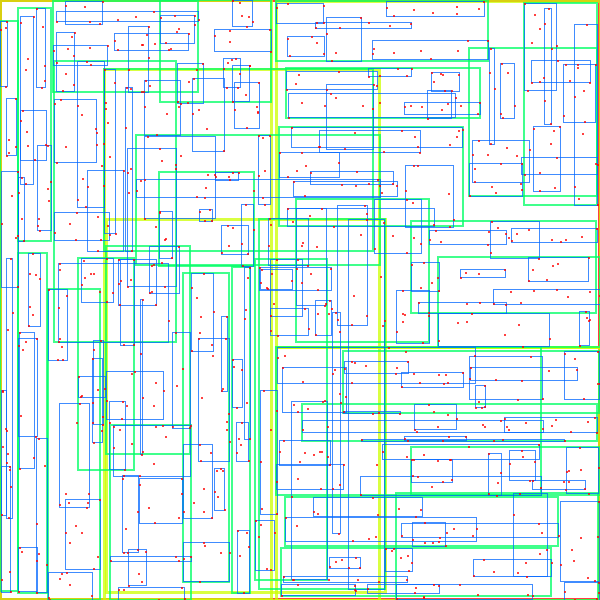
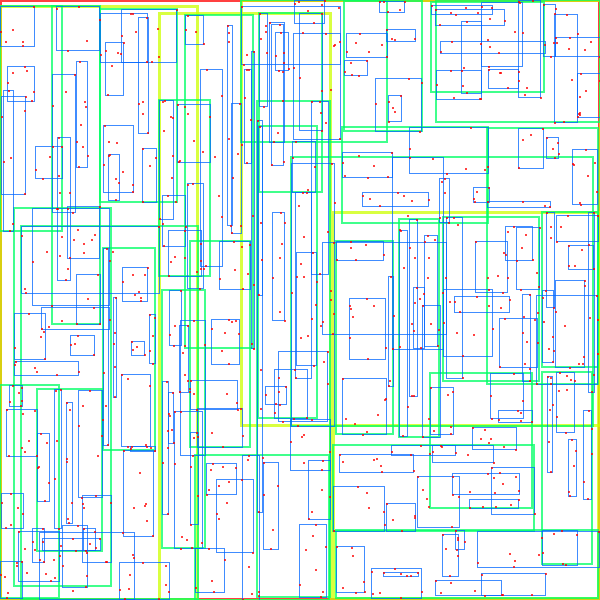
update docs for STR bulk loading

diff --git a/README.md b/README.md
@@ -30,6 +30,7 @@ Features
 * Guttman's heuristics (Quadratic splitter) ([paper](https://www.google.com.au/url?sa=t&rct=j&q=&esrc=s&source=web&cd=1&cad=rja&uact=8&ved=0CB8QFjAA&url=http%3A%2F%2Fpostgis.org%2Fsupport%2Frtree.pdf&ei=ieEQVJuKGdK8uATpgoKQCg&usg=AFQjCNED9w2KjgiAa9UI-UO_0eWjcADTng&sig2=rZ_dzKHBHY62BlkBuw3oCw&bvm=bv.74894050,d.c2E))
 * R*-tree heuristics ([paper](http://dbs.mathematik.uni-marburg.de/publications/myPapers/1990/BKSS90.pdf))
 * Customizable [splitter](src/main/java/com/github/davidmoten/rtree/Splitter.java) and [selector](src/main/java/com/github/davidmoten/rtree/Selector.java)
+* 10x faster index creation with STR bulk loading ([paper](https://www.researchgate.net/profile/Scott_Leutenegger/publication/3686660_STR_A_Simple_and_Efficient_Algorithm_for_R-Tree_Packing/links/5563368008ae86c06b676a02.pdf)).
 * search returns [```Observable```](http://reactivex.io/RxJava/javadoc/rx/Observable.html) 
 * search is cancelled by unsubscription
 * search is ```O(log(n))``` on average
@@ -47,9 +48,10 @@ Features
 
 Number of points = 1000, max children per node 8: 
 
-| Quadratic split | R*-tree split |
-| :-------------: | :-----------: |
-| <img src="src/docs/quad-1000-8.png?raw=true" /> | <img src="src/docs/star-1000-8.png?raw=true" /> |
+| Quadratic split | R*-tree split | STR bulk loaded |
+| :-------------: | :-----------: | :-----------: |
+| <img src="src/docs/quad-1000-8.png?raw=true" /> | <img src="src/docs/star-1000-8.png?raw=true" /> | <img src="src/docs/str-1000-8.png?raw=true" /> |
+
 
 Notice that there is little overlap in the R*-tree split compared to the 
 Quadratic split. This should provide better search performance (and in general benchmarks show this).
@@ -261,10 +263,11 @@ D
 
 How to configure the R-tree for best performance
 --------------------------------------------------
-Check out the benchmarks below, but I recommend you do your own benchmarks because every data set will behave differently. If you don't want to benchmark then use the defaults. General rules based on the benchmarks:
+Check out the benchmarks below and refer to [another benchmark results](https://github.com/ambling/rtree-benchmark#results), but I recommend you do your own benchmarks because every data set will behave differently. If you don't want to benchmark then use the defaults. General rules based on the benchmarks:
 
 * for data sets of <10,000 entries use the default R-tree (quadratic splitter with maxChildren=4)
 * for data sets of >=10,000 entries use the star R-tree (R*-tree heuristics with maxChildren=4 by default)
+* use STR bulk loaded R-tree (quadratic splitter or R*-tree heuristics) for large (where index creation time is important) or static (where insertion and deletion are not frequent) data sets
 
 Watch out though, the benchmark data sets had quite specific characteristics. The 1000 entry dataset was randomly generated (so is more or less uniformly distributed) and the *Greek* dataset was earthquake data with its own clustering characteristics. 
 
@@ -432,3 +435,4 @@ searchNearestGreek                                                     thrpt   1
 
 ```
 
+Related project [rtree-benchmark](https://github.com/ambling/rtree-benchmark): a more comprehensive benchmark with results and analysos on this rtree implementation.
